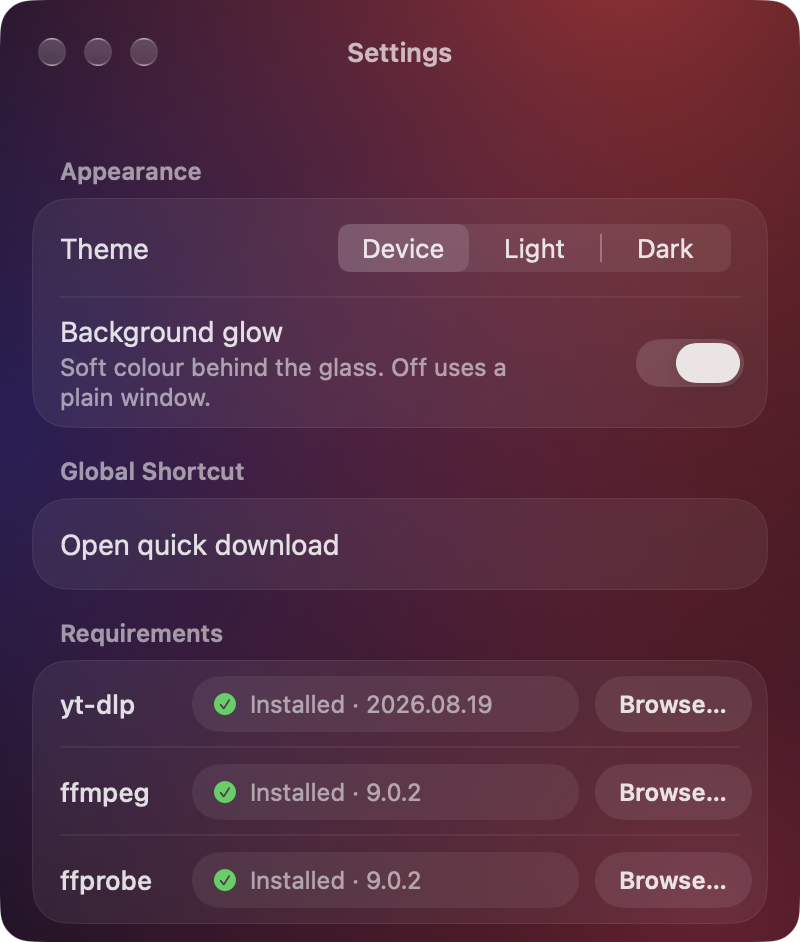
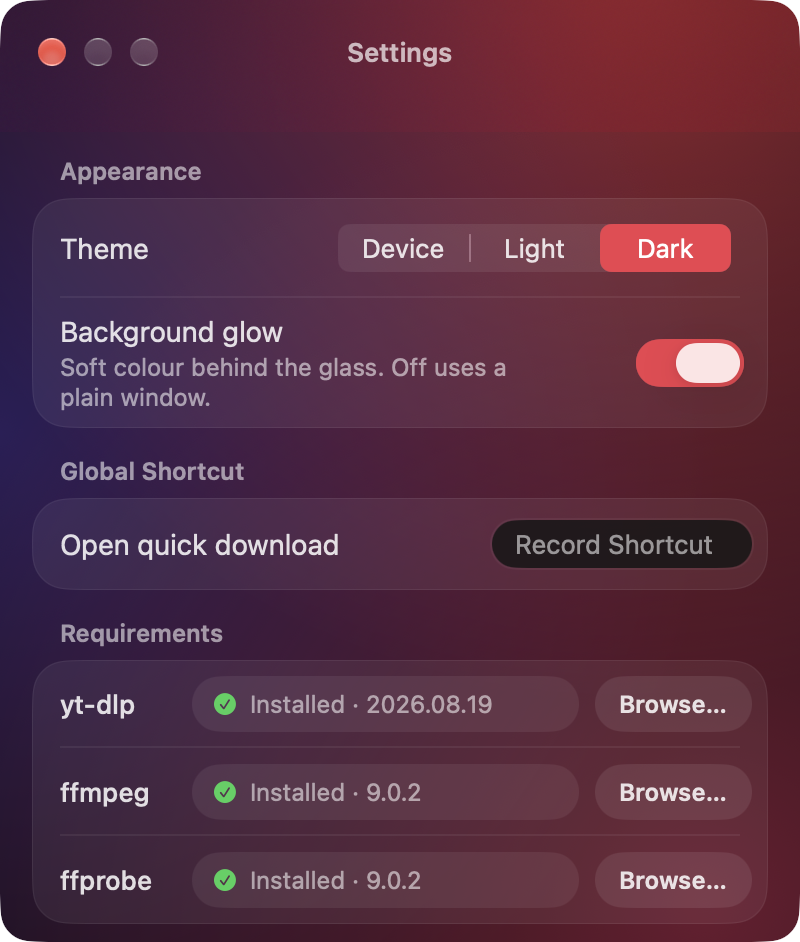
Draw the Settings title above the scroll view so it stays crisp
Found while checking the real app: the scroll view's edge blur sat on top of the
centred title. Also retakes the Settings screenshot from the real app.

diff --git a/Downer/SettingsView.swift b/Downer/SettingsView.swift
@@ -23,9 +23,6 @@ struct SettingsView: View {
 
             AmbientBackground()
 
-            TitleBarRow(title: "Settings") { EmptyView() }
-                .frame(maxHeight: .infinity, alignment: .top)
-
             ScrollView {
                 VStack(spacing: 14) {
                     appearanceGroup.appear(0)
@@ -36,6 +33,10 @@ struct SettingsView: View {
                 .padding(.top, -4)
             }
             .scrollIndicators(.never)
+
+            // drawn last so the scroll view's edge blur never sits on top of the title
+            TitleBarRow(title: "Settings") { EmptyView() }
+                .frame(maxHeight: .infinity, alignment: .top)
         }
         .tint(Brand.red)
         .frame(width: 400, height: 405)
